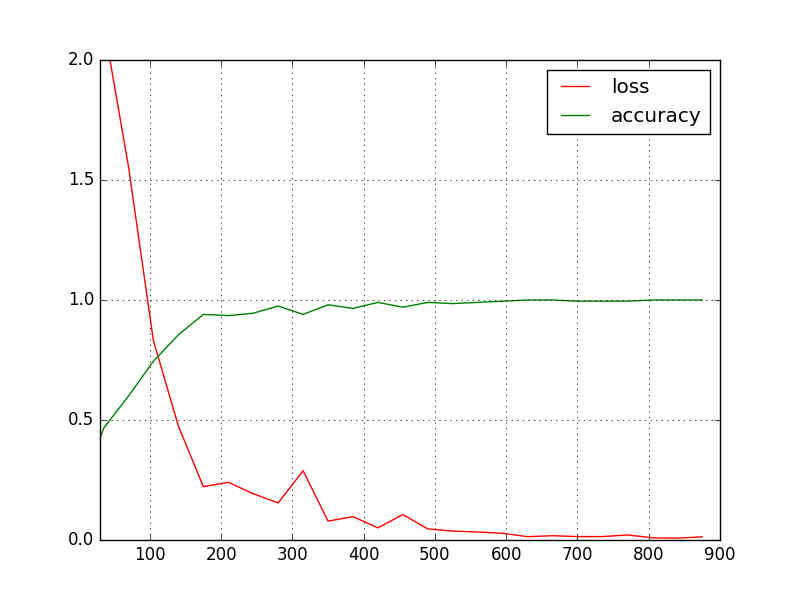
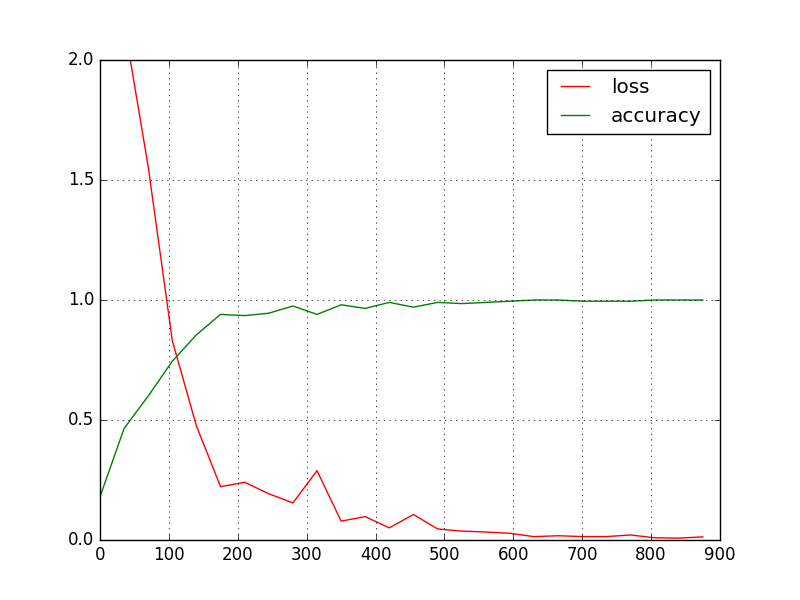
Added weight decay, updated axis settings to show the entire x axis

diff --git a/tools.py b/tools.py
@@ -8,6 +8,7 @@ from PIL import Image
 from keras.engine import Merge
 from keras.layers import Convolution2D, MaxPooling2D, BatchNormalization, Flatten, Dense, Dropout
 from keras.models import Sequential
+from keras.optimizers import SGD, Adam
 from keras.preprocessing.image import ImageDataGenerator, img_to_array
 from sklearn.preprocessing import LabelEncoder
 from sklearn.preprocessing import OneHotEncoder
@@ -242,6 +243,7 @@ def get_model(img_res, additional_features_len, n_classes):
     model_merged.add(Dense(1024 + additional_features_len, activation='tanh'))
     model_merged.add(Dropout(.5))
     model_merged.add(Dense(n_classes, activation='softmax'))
-    model_merged.compile(loss='categorical_crossentropy', metrics=['accuracy'], optimizer='adam')
+    optimizer = Adam(decay=1e-6)
+    model_merged.compile(loss='categorical_crossentropy', metrics=['accuracy'], optimizer=optimizer)
 
     return model_merged

diff --git a/plot_loss.py b/plot_loss.py
@@ -33,8 +33,5 @@ else:
 
 plt.legend(loc='upper right')
 plt.grid(True)
-plt.xlim(30, )
 plt.ylim(0, 2)
 plt.savefig('plot.png')
-
-pass
